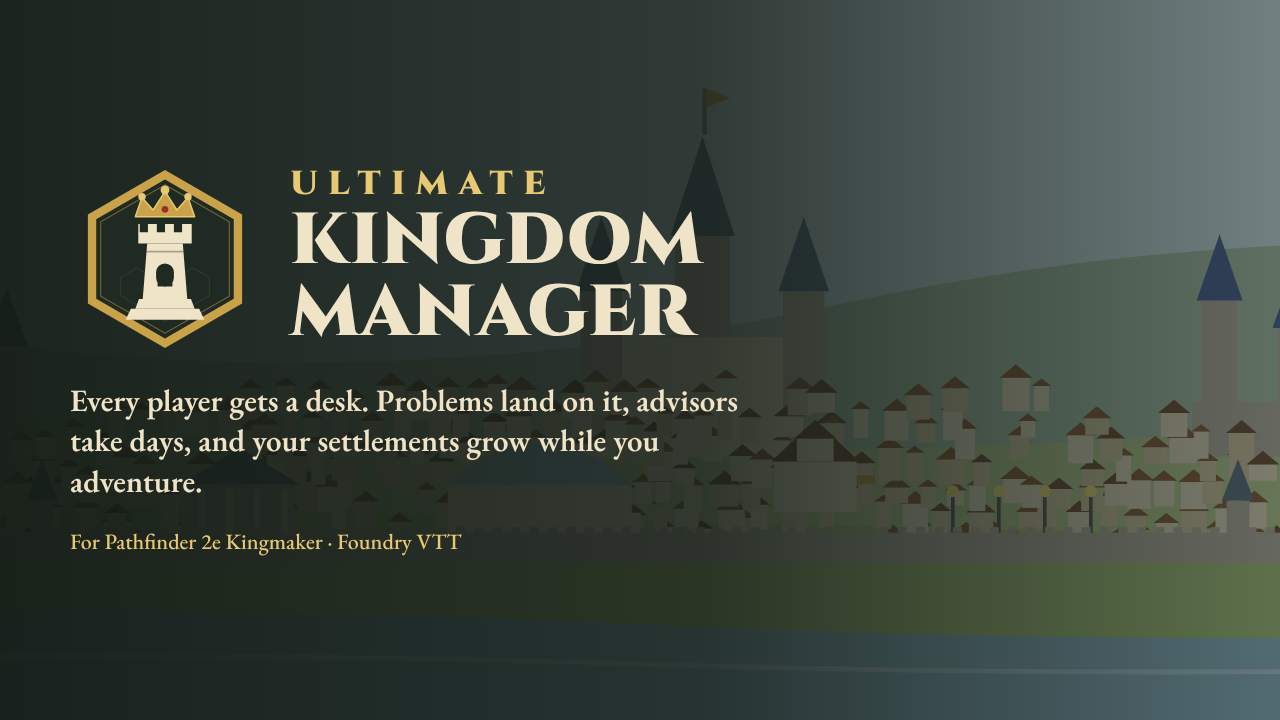
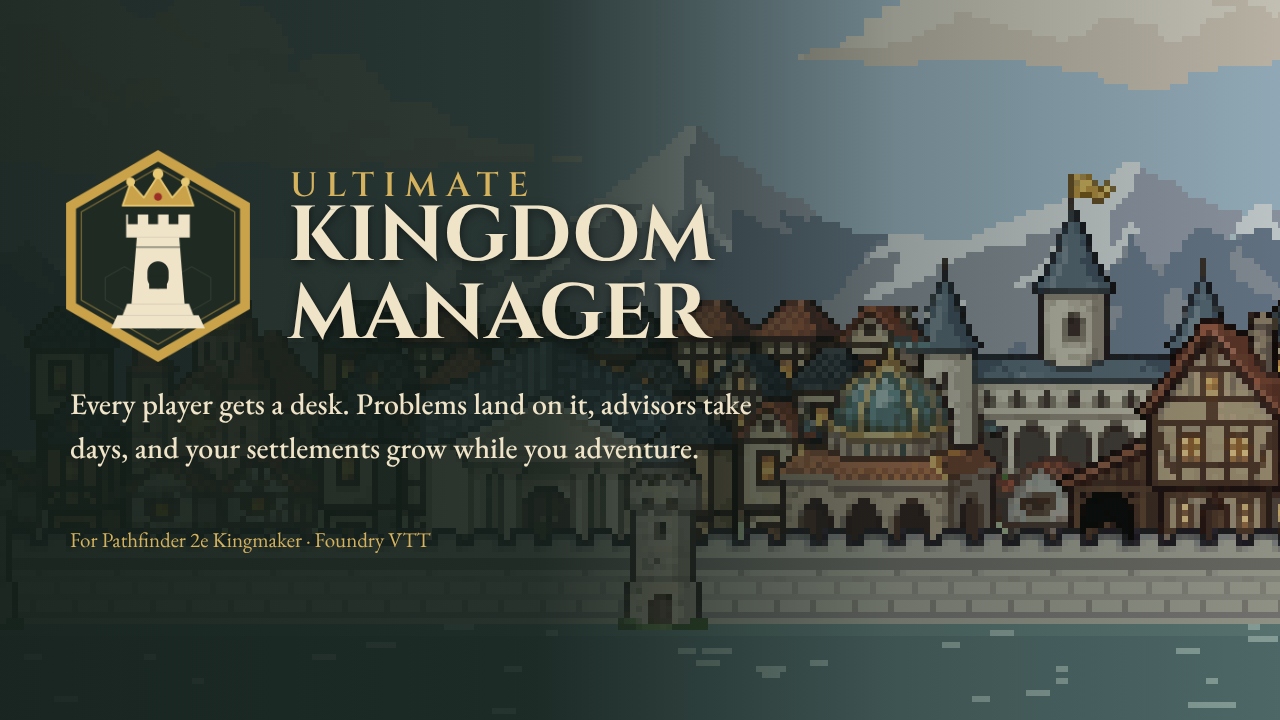
New cover and README strip from the pixel-art panorama
Claude-Session: https://claude.ai/code/session_017h8gNdYvBiBm1FhTvTmU9e

diff --git a/README.md b/README.md
@@ -8,7 +8,9 @@ The kingdom rules in the Kingmaker hardcover are a monthly spreadsheet with dice
 
 Every seat on the council is a desk and every player sits at one. When something goes wrong in the realm a card lands on the right desk with a deadline. You can handle it personally, which means your character rolls with their own skills and spends their own days on it, or you can delegate it to the companion advising that seat, who rolls their own check and comes back in a few days while you get on with the dungeon. Leave a card too long and it gets worse. Nobody has to run a kingdom turn because there isn't one. The kingdom levels when the party levels, income arrives weekly, events draw themselves each month, and the GM just lets the calendar move.
 
-Settlements grow along tracks instead of a building grid. A capital can push toward markets or temples or walls, and each stage changes what the town can do and how it looks, with a picture of the skyline that fills in as you build. Reach the top of a track and you get a pinnacle.
+Settlements grow along tracks instead of a building grid. A capital can push toward markets or temples or walls, and each stage changes what the town can do and how it looks, with a pixel-art view of the town that fills in as you build. Reach the top of a track and you get a pinnacle.
+
+<p align="center"><img src="media/panorama-growth.png" alt="One capital on the Settlements tab, growing from a village to a town, a city and a metropolis" width="860"></p>
 
 The adventure's own kingdom events are in here too, sorted by chapter: Grigori stirring up the capital, the trolls, the werewolf, the bloom. The GM picks the chapter and puts them on the desks when the story calls for it, and if you own the official Kingmaker module the cards link straight to the right page of the adventure.
 
